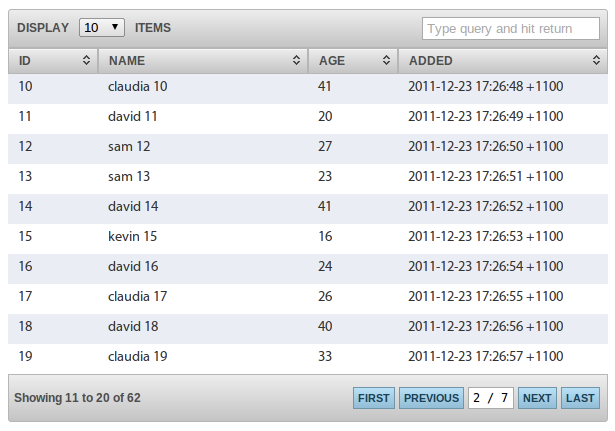
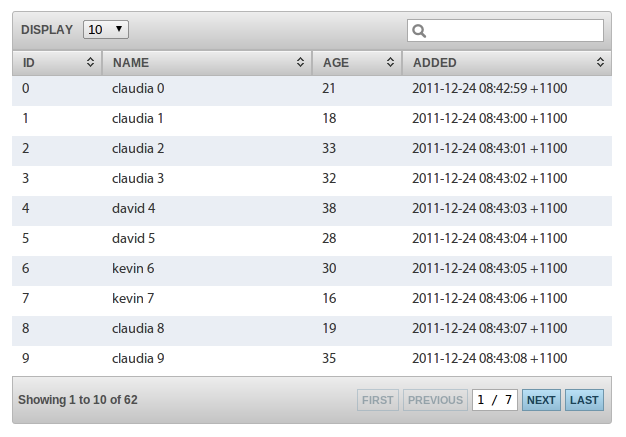
i8n

diff --git a/public/js/jquery.tables.js b/public/js/jquery.tables.js
@@ -56,10 +56,22 @@ Copyright (C) 2011 Bharanee Rathna
       };
     };
 
+    var i8n = {
+      display: 'Display',
+      first:    'first',
+      previous: 'previous',
+      next:     'next',
+      last:     'last',
+      pageinfo: 'Showing {s} to {e} of {t}',
+      loading:  'LOADING DATA ...',
+      error:    'ERROR LOADING DATA'
+    };
+
     // pagination & sorting
     settings.items_per_page = settings.items_per_page || [10, 20, 50, 100];
     settings.sorters        = settings.sorters        || {};
     settings.url            = settings.url            || table.attr('data-url');
+    settings.i8n            = jQuery.extend(true, settings.i8n || {}, i8n);
 
     this.page = 0, this.total = 0, this.filtered = 0, this.pages = 0, this.buffer;
     this.limit = settings.items_per_page[0] || table.attr('data-tables-items-per-page');
@@ -166,7 +178,7 @@ Copyright (C) 2011 Bharanee Rathna
 
       var search = $('<div/>', {"class": "query"}).append(input);
 
-      return div.append(ipp.append('display').append(select).append('items')).append(search);
+      return div.append(ipp.append(settings.i8n.display).append(select)).append(search);
     };
 
     this.bottom_controls = function() {
@@ -177,7 +189,7 @@ Copyright (C) 2011 Bharanee Rathna
     // TODO: i18n
     this.fetch_error = function(m) {
       table.trigger('jqt-fetch-error');
-      table.find('tbody div.jqt-overlay center').text('ERROR LOADING DATA');
+      table.find('tbody div.jqt-overlay center').text(settings.i8n.error);
     };
 
     this.fetch_buffer = function(data, textStatus, jqXHR) {
@@ -203,7 +215,7 @@ Copyright (C) 2011 Bharanee Rathna
       // remove any previous overlays
       table.find('tbody div.jqt-overlay').remove();
 
-      var message = '<center> LOADING DATA ... </center>';
+      var message = '<center>' + settings.i8n.loading + '</center>';
       var tbody   = table.find('tbody');
 
       if (table.find('tbody tr').size() < 1) {
@@ -255,7 +267,7 @@ Copyright (C) 2011 Bharanee Rathna
       var toolbar = table.next('.jqt-control.bottom');
       var pagen   = Math.min(offset + this.limit, this.filtered);
       var page    = this.filtered > 0 ? offset + 1 : 0;
-      var text    = 'Showing ' + page + ' to ' + pagen + ' of ' + this.filtered;
+      var text    = settings.i8n.pageinfo.replace('{s}', page).replace('{e}', pagen).replace('{t}', this.filtered);
 
       toolbar.find('.jqt-info').remove();
       toolbar.prepend($('<div/>', {"class": "jqt-info"}).append(text));
@@ -271,10 +283,10 @@ Copyright (C) 2011 Bharanee Rathna
       }
       else {
         tbdiv = $('<div/>',  {"class": "jqt-pagination"});
-        first = $('<span/>', {"class": "jqt-first ui-button ui-state-active", "html": "first"});
-        prev  = $('<span/>', {"class": "jqt-previous ui-button ui-state-active", "html": "previous"});
-        next  = $('<span/>', {"class": "jqt-next ui-button ui-state-active", "html": "next"});
-        last  = $('<span/>', {"class": "jqt-last ui-button ui-state-active", "html": "last"});
+        first = $('<span/>', {"class": "jqt-first ui-button ui-state-active", "html": settings.i8n.first});
+        prev  = $('<span/>', {"class": "jqt-previous ui-button ui-state-active", "html": settings.i8n.previous});
+        next  = $('<span/>', {"class": "jqt-next ui-button ui-state-active", "html": settings.i8n.next});
+        last  = $('<span/>', {"class": "jqt-last ui-button ui-state-active", "html": settings.i8n.last});
 
         first.click(function() {
           if ($(this).is('.ui-state-disabled')) return;
